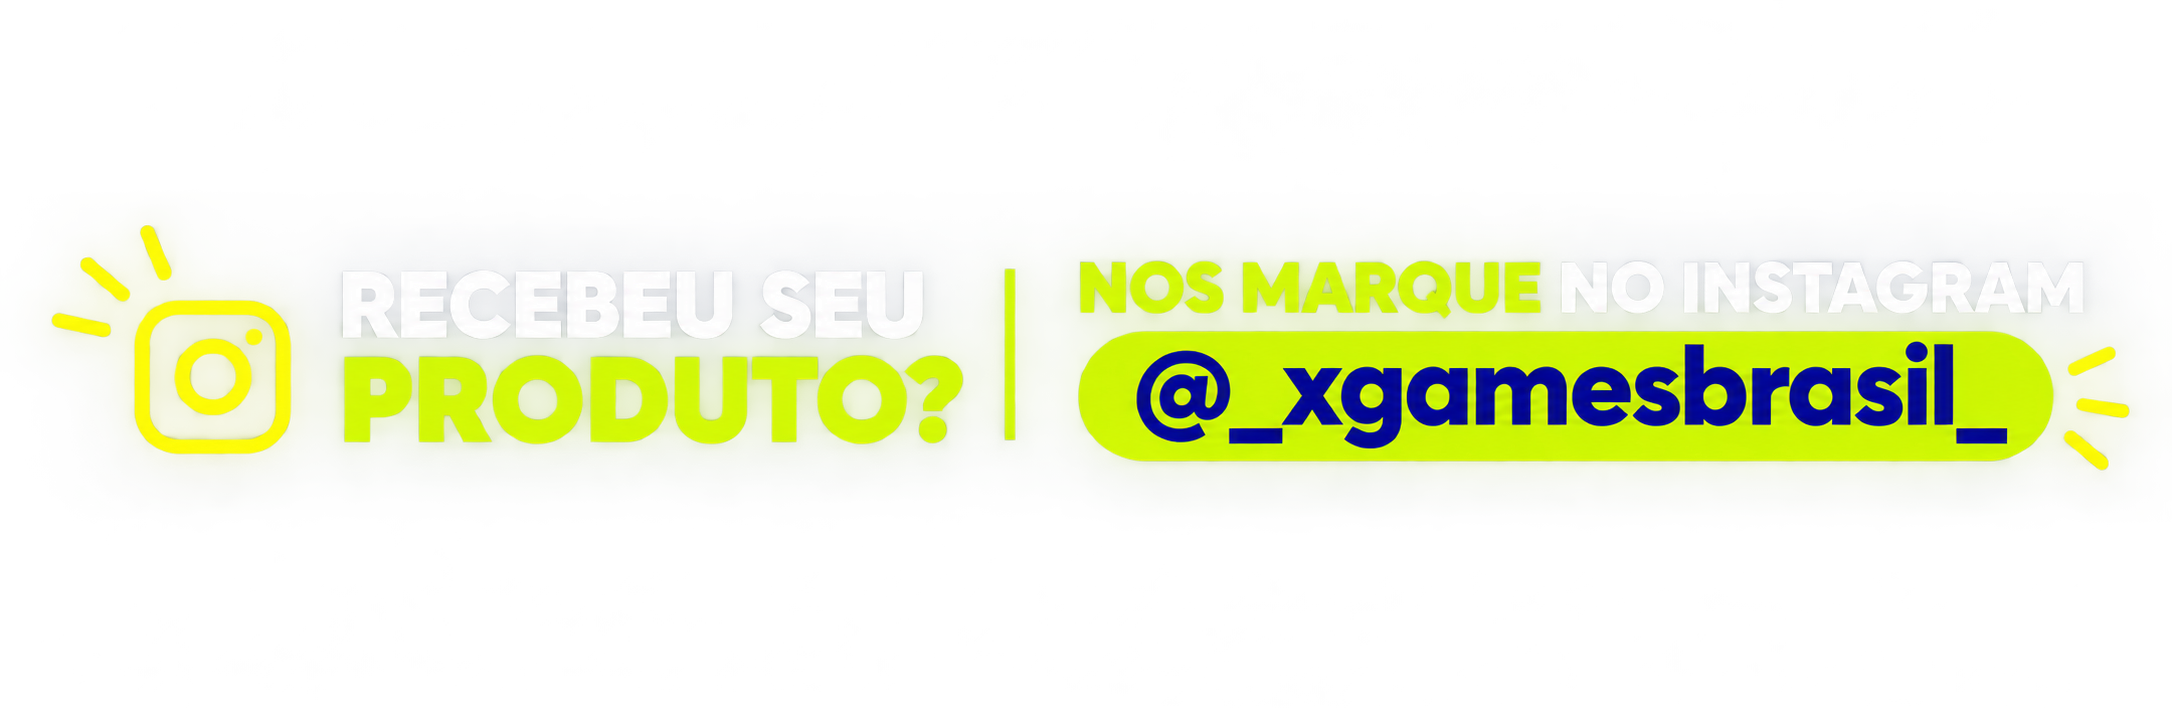
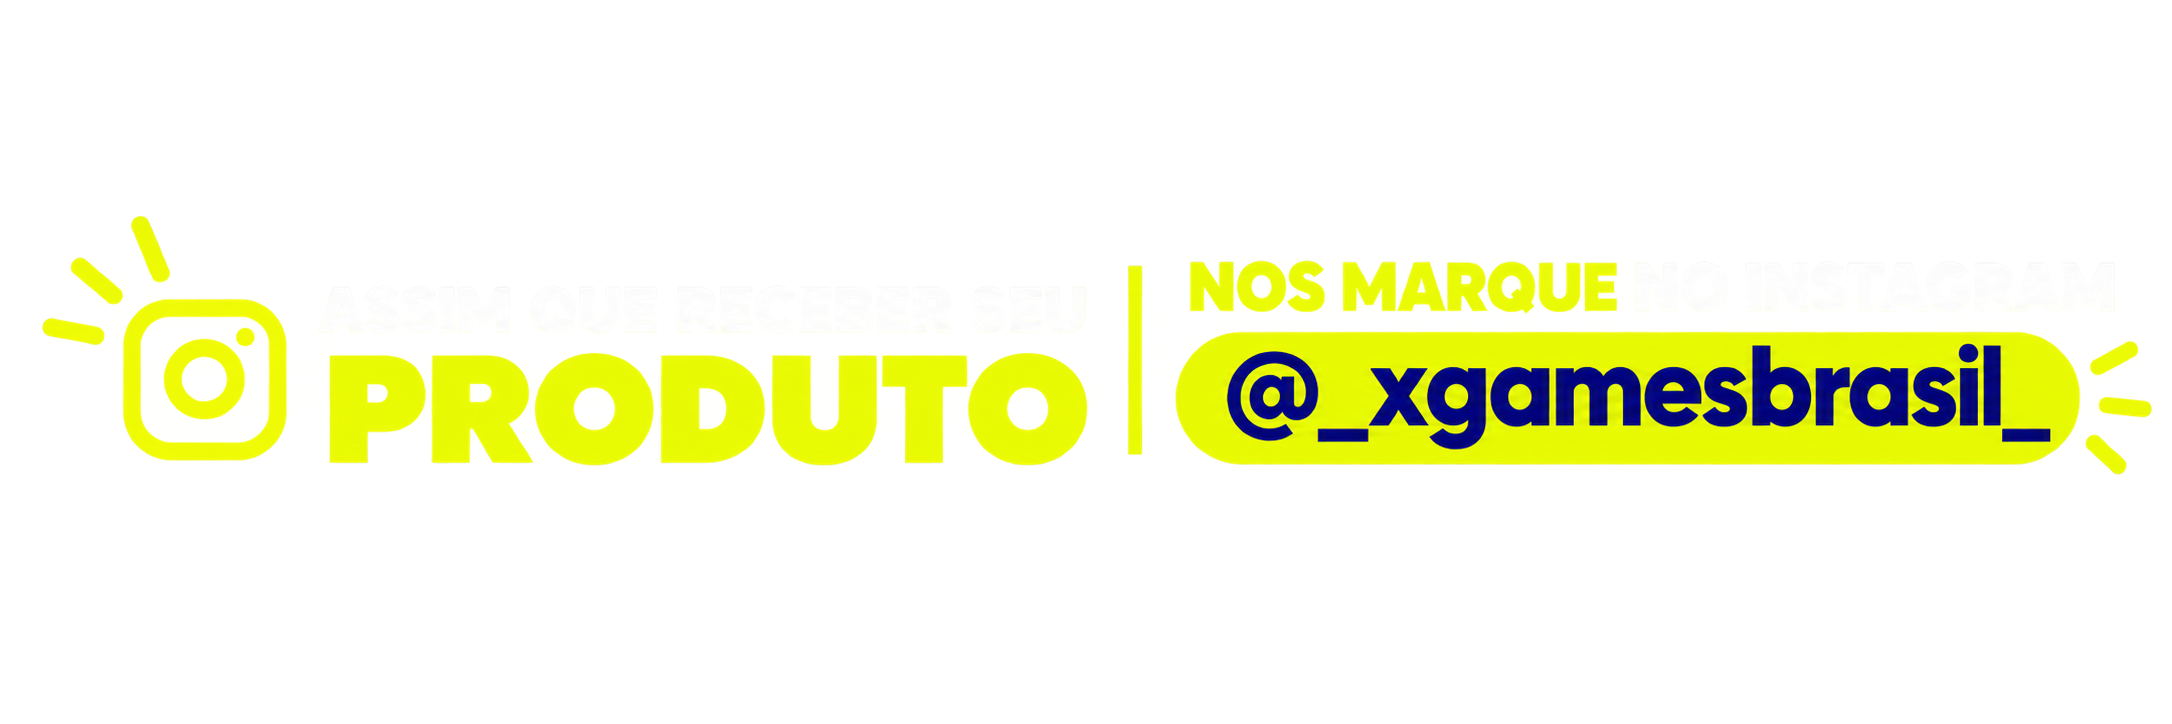
Atualiza arte e altura da faixa do Instagram

Changed region(s): [[0.0, 0.3039, 1.0, 0.6685]]

diff --git a/index.html b/index.html
@@ -146,14 +146,14 @@
 
   /* Top promo bar */
   .promo-bar{
-    height:clamp(44px,12vw,58px); background:#034bc5; overflow:hidden;
+    height:clamp(42px,10.5vw,54px); background:#034bc5; overflow:hidden;
     display:flex; align-items:center; justify-content:center; padding:0;
   }
   .promo-art-crop{
-    position:relative; height:74%; aspect-ratio:7.1 / 1; max-width:94%; overflow:hidden;
+    position:relative; height:78%; aspect-ratio:7.1 / 1; max-width:94%; overflow:hidden;
   }
   .promo-art-crop img{
-    position:absolute; left:0; top:-60.5%; width:100%; height:auto; display:block;
+    position:absolute; left:0; top:-63%; width:100%; height:auto; display:block;
   }
 
   /* Header */
@@ -1015,7 +1015,7 @@
     .head-icons{gap:15px;}
 
     .promo-bar{
-      width:100%; height:clamp(44px,12vw,52px);
+      width:100%; height:clamp(42px,11vw,48px);
     }
 
     .crumb{font-size:10.5px; line-height:1.35; overflow-wrap:anywhere;}
